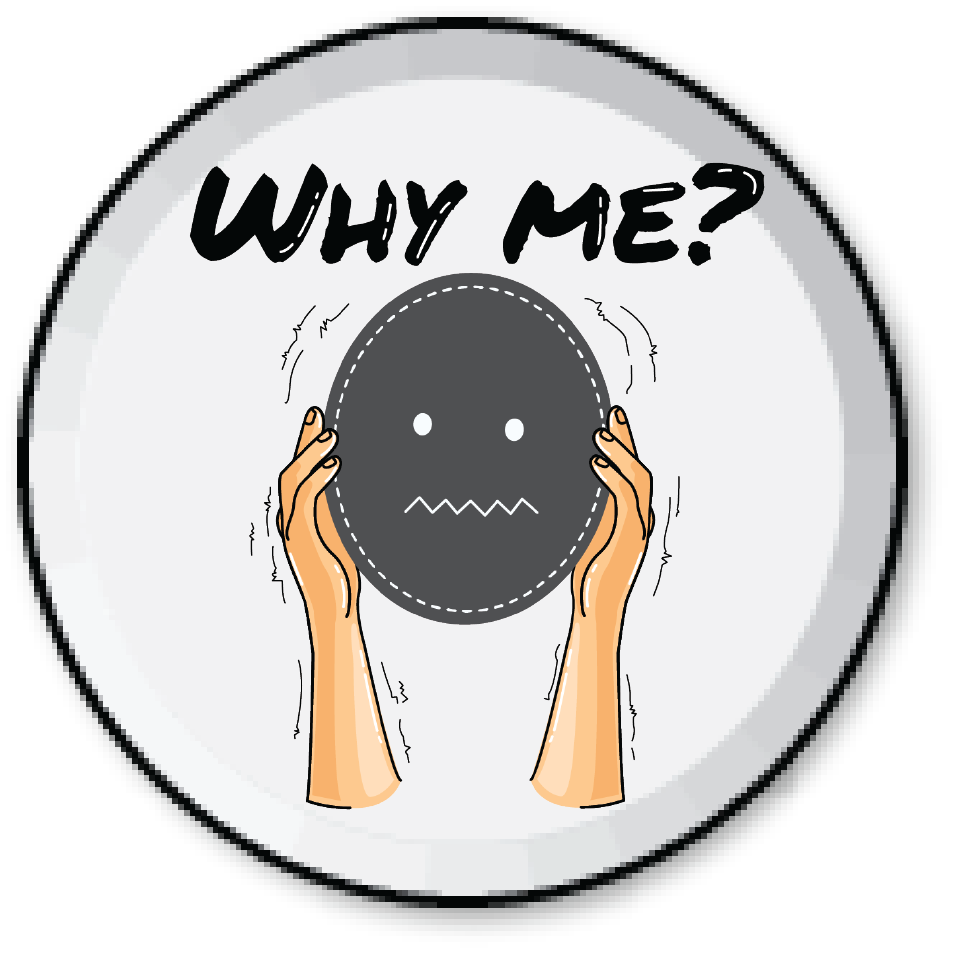
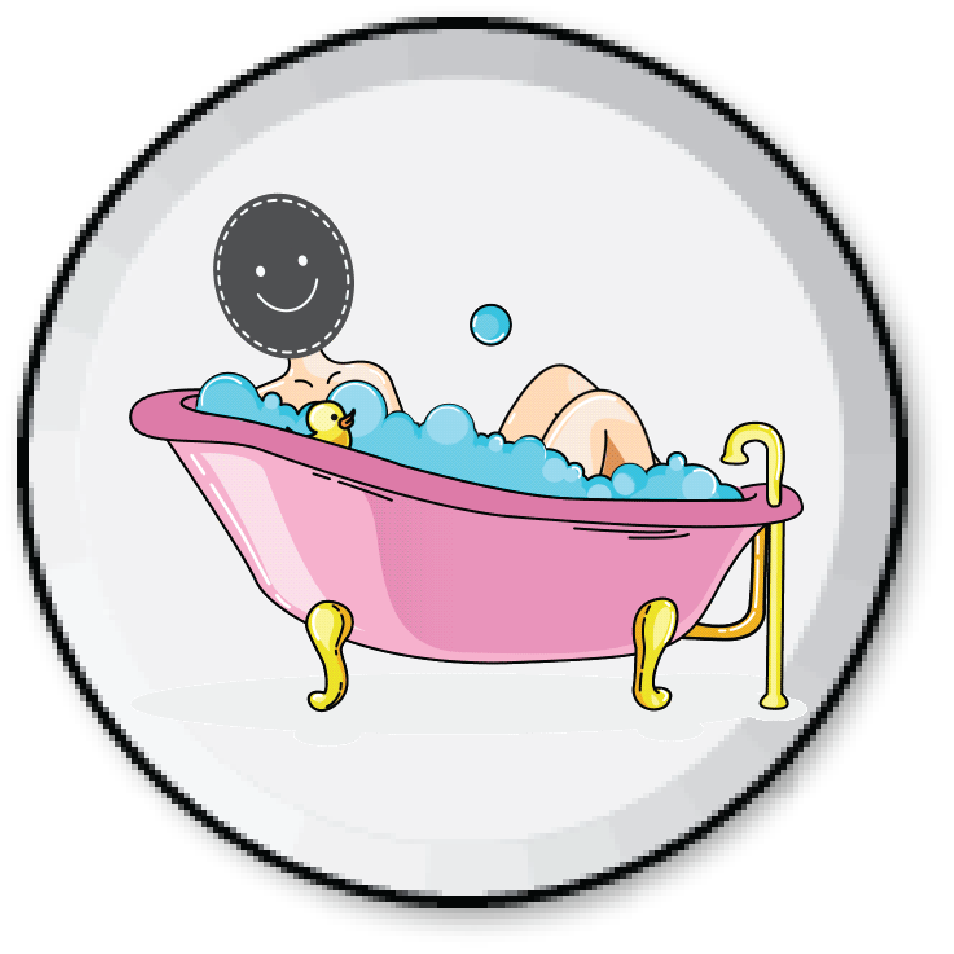
- Add new sticker - Review existing stickers and removed unused ones with missing recources - Fix indexing logic for stickers

Changed region(s): [[0.1216, 0.152, 0.8512, 0.8512], [0.6688, 0.3648, 0.6992, 0.3952]]

diff --git a/ComicingGif/AppDelegate.m b/ComicingGif/AppDelegate.m
@@ -18,38 +18,28 @@
 
 @implementation AppDelegate
 
-
 - (BOOL)application:(UIApplication *)application didFinishLaunchingWithOptions:(NSDictionary *)launchOptions {
 	// Override point for customization after application launch.
-
-        // Override point for customization after application launch.
-    UIStoryboard *storyboard = [UIStoryboard storyboardWithName:kMainStoryboard bundle:nil];
-
     NSArray *arr = [ComicObjectSerialize loadComicSlide];
-    if (arr) {
-
-        CBComicPreviewVC *vcCBComicPreviewVC = [storyboard instantiateViewControllerWithIdentifier:CBComicPreviewVCIdentifier];
-        vcCBComicPreviewVC.comicSlides = [arr mutableCopy];
-        self.window.rootViewController = [[UINavigationController alloc] initWithRootViewController:vcCBComicPreviewVC];
-
-    } else {
-        CBComicPreviewVC *vcCBComicPreviewVC = [storyboard instantiateViewControllerWithIdentifier:CBComicPreviewVCIdentifier];
-        vcCBComicPreviewVC.comicSlides = [arr mutableCopy];
-        
+    
+    UIStoryboard *storyboard = [UIStoryboard storyboardWithName:kMainStoryboard bundle:nil];
+    
+    CBComicPreviewVC *vcCBComicPreviewVC = [storyboard instantiateViewControllerWithIdentifier:CBComicPreviewVCIdentifier];
+    vcCBComicPreviewVC.comicSlides = [arr mutableCopy];
+    
+    UINavigationController *navC = [[UINavigationController alloc] initWithRootViewController:vcCBComicPreviewVC];
+    
+    if (arr.count == 0) {
         CameraViewController *vcCameraViewController = [storyboard instantiateViewControllerWithIdentifier:CAMERA_VIEW];
         vcCameraViewController.isVerticalCamera = NO;
         vcCameraViewController.indexOfSlide = -1;
         
-        NSArray *controllers = [NSArray arrayWithObjects:vcCBComicPreviewVC, vcCameraViewController, nil];
-        UINavigationController *navC = [[UINavigationController alloc] initWithRootViewController:vcCameraViewController];
+        NSArray *controllers = @[vcCBComicPreviewVC, vcCameraViewController];
         [navC setViewControllers:controllers];
-        self.window.rootViewController = navC;
-        
-
     }
-        [self.window makeKeyAndVisible];
-        return YES;
-
+    
+    self.window.rootViewController = navC;
+    
 	return YES;
 }
 

diff --git a/ComicingGif/ViewControllers/CameraViewController.m b/ComicingGif/ViewControllers/CameraViewController.m
@@ -40,7 +40,6 @@ const NSTimeInterval kDelayBeforeTransition = 2.0f;
 @property (weak, nonatomic) IBOutlet UIView *captureHolder;
 @property (weak, nonatomic) IBOutlet UIView *animView;
 @property (weak, nonatomic) IBOutlet UIImageView *imgSelected;
-@property (weak, nonatomic) IBOutlet UIView *closeView;
 @property (strong, nonatomic) NSDate *tapOnCaptureTime;
 @end
 
@@ -113,10 +112,9 @@ const NSTimeInterval kDelayBeforeTransition = 2.0f;
     // Dispose of any resources that can be recreated.
 }
 
-- (UIStatusBarStyle)preferredStatusBarStyle {
-    return UIStatusBarStyleLightContent;
+- (BOOL)prefersStatusBarHidden {
+    return YES;
 }
-
 
 #pragma mark - Navigation
 
@@ -423,9 +421,6 @@ const NSTimeInterval kDelayBeforeTransition = 2.0f;
     
     CGRect tempFrame = self.captureHolder.frame;
     tempFrame.origin.y = [UIScreen mainScreen].bounds.size.height;
-    
-    CGRect tempTopBar = self.closeView.frame;
-    tempTopBar.origin.y = 0 - self.topBar.frame.size.height;
     
     [self resetRecord];
     [vc initWithBaseImage:url frame:wSelf.cameraPreview.frame andSubviewArray:nil isTall:!wSelf.isVerticalCamera index:_indexOfSlide];

diff --git a/ComicingGif/ViewControllers/ComicMakingViewController.m b/ComicingGif/ViewControllers/ComicMakingViewController.m
@@ -1273,7 +1273,7 @@ TitleFontDelegate>
 //            dispatch_async(dispatch_get_main_queue(), ^{
 //                vc.transitionView.hidden = NO;
         [Global global].haveAccessToOpenCameraScreen = true;
-                [self.navigationController popToRootViewControllerAnimated:YES];
+                [self.navigationController popToRootViewControllerAnimated:NO];
 //            });
 //        }];
         
@@ -2079,12 +2079,8 @@ float scale = 1;
         
     } else {
         type = collectionView.tag;
-        index = indexPath.item == 0 ? 9 : indexPath.item + 2;
-        
-        if (((ComicObjectType)type) == ObjectSticker) {
-            index = indexPath.item;
-        }
-        
+        index = indexPath.item;
+
         //		category = nCategory - 1;
         category = indexPath.section;//indexPath.item;
     }
